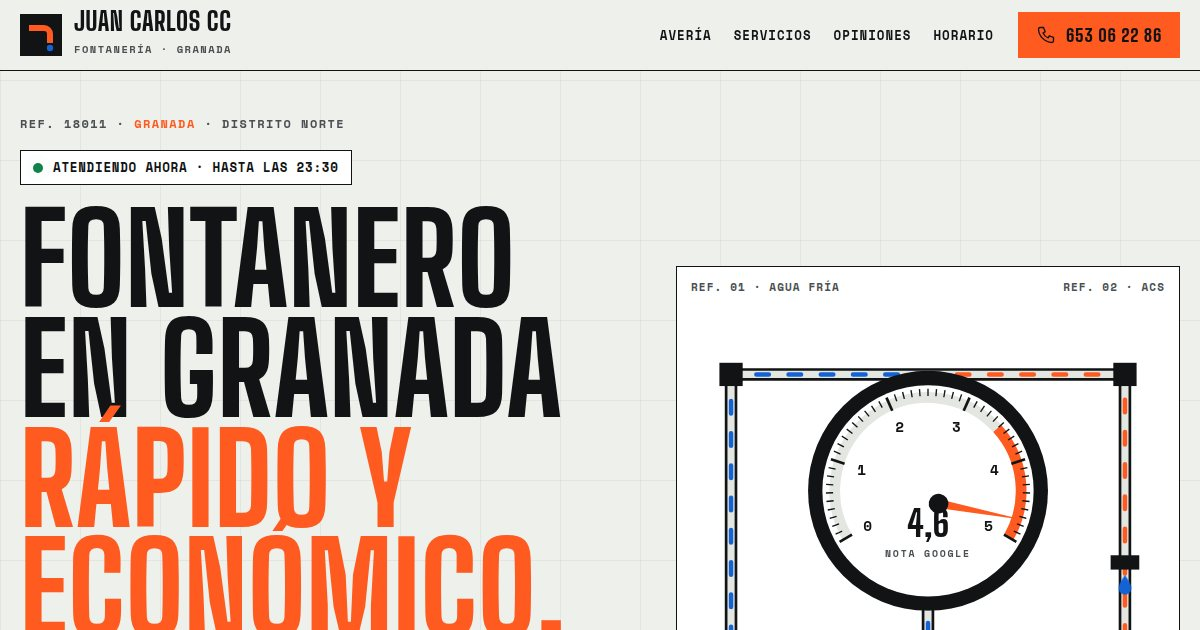
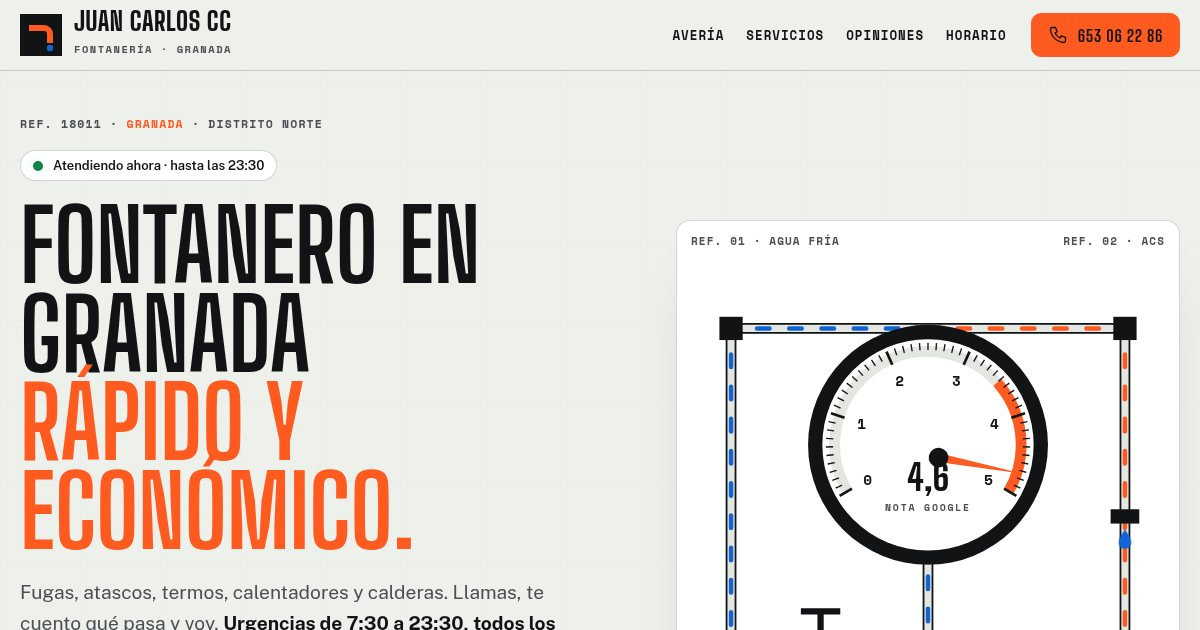
Add files via upload

diff --git a/demos/juan-carlos-fontanero-granada.html b/demos/juan-carlos-fontanero-granada.html
@@ -310,6 +310,96 @@ legend b{color:var(--naranja-osc)}
   .serv{height:auto}.serv-fijo{position:relative;height:auto;padding:90px 0}.pista{flex-direction:column;padding:0 20px}.srv{width:100%}.progreso{display:none}
   .barras .b i{transform:none}
 }
+/* ── versión tranquila: mismo estilo, menos golpe ── */
+:root{--linea-2:rgba(17,19,21,.18);--r:14px}
+body::before{opacity:.12}
+h1,h2,h3{font-weight:700;letter-spacing:0}
+h2,h3{text-transform:none;line-height:.95}
+.aviso{font-family:var(--txt);font-size:13px}
+.cab{border-bottom:1px solid var(--linea-2)}
+.btn{border-width:1px;border-radius:10px;font-weight:700;font-size:18px;padding:14px 20px;border-color:var(--linea-2)}
+.btn-naranja{border-color:var(--naranja)}
+.btn-tinta{border-color:var(--tinta)}
+.cab .btn{font-size:17px}
+.hero{border-bottom:0;padding-bottom:30px}
+.hero h1{font-size:clamp(54px,8.2vw,118px);line-height:.9}
+.estado{border-width:1px;border-color:var(--linea-2);border-radius:99px;font-family:var(--txt);font-size:13px;letter-spacing:0;text-transform:none;font-weight:600}
+.hero .dato div{border-left-width:2px}
+.panel{border:1px solid var(--linea-2);border-radius:var(--r);overflow:hidden;box-shadow:0 30px 60px -40px rgba(17,19,21,.35)}
+.tubo{stroke-width:12}
+.cinta{background:var(--blanco);border-block:1px solid var(--linea-2);padding:12px 0}
+.cinta-pista{animation-duration:60s}
+.cinta span{font-size:clamp(22px,2.4vw,30px);font-weight:600;gap:36px;color:var(--tinta-2)}
+.cinta span::after{width:9px;height:9px;background:var(--naranja);border-radius:2px}
+.sec{padding:clamp(70px,8vw,110px) 0}
+.cabeza h2{font-size:clamp(40px,5vw,68px)}
+.ref{font-size:11.5px;letter-spacing:.1em}
+.diag{background:transparent;border:0}
+.diag-grid{background:var(--blanco);border:1px solid var(--linea-2);border-radius:var(--r);padding:clamp(20px,3vw,34px)}
+.av span{border:1px solid var(--linea-2);border-radius:12px;background:var(--papel)}
+.av b{font-weight:700;text-transform:none;font-size:21px}
+.av input:checked+span{background:var(--tinta);border-color:var(--tinta)}
+.chip span{border:1px solid var(--linea-2);border-radius:99px;font-family:var(--txt);font-size:14px;font-weight:600;text-transform:none;letter-spacing:0}
+.chip input:checked+span{background:var(--tinta);border-color:var(--tinta);color:#fff}
+legend{font-family:var(--txt);font-size:13px;letter-spacing:.04em}
+.campo label{font-family:var(--txt);font-size:12.5px;letter-spacing:.04em}
+.campo input{border:1px solid var(--linea-2);border-radius:10px}
+.parte{border:1px solid var(--linea-2);border-radius:12px;overflow:hidden}
+.parte-cab{background:var(--papel-2);color:var(--tinta)}
+.parte-cab b{color:var(--naranja-osc)}
+/* servicios en rejilla, sin scroll fijado */
+.serv{height:auto;padding:clamp(70px,8vw,110px) 0}
+.serv-fijo{position:relative;height:auto;padding:0;display:block}
+.serv-cab h2{font-size:clamp(40px,5vw,68px)}
+.progreso{display:none}
+.pista{display:grid;grid-template-columns:repeat(3,1fr);gap:16px;padding:0;width:min(1240px,100% - 40px);margin-inline:auto;transform:none!important}
+.srv{width:auto;min-height:0;border:1px solid var(--linea-2);border-radius:var(--r);background:var(--blanco)!important;padding:24px}
+.srv:nth-child(4),.srv:nth-child(5){grid-column:span 1}
+.srv .num{font-size:64px;-webkit-text-stroke:1px var(--linea-2);right:18px;top:18px}
+.srv svg.ico{width:48px;height:48px}
+.srv h3{font-size:clamp(30px,2.6vw,38px);margin-top:10px}
+.srv .tag{border:1px solid var(--linea-2);border-radius:99px;font-family:var(--txt);text-transform:none;letter-spacing:0;font-size:12.5px;background:var(--papel)}
+.srv-cta{border:1px dashed var(--linea-2);border-radius:var(--r);padding:24px;display:flex;flex-direction:column;justify-content:center;gap:14px;background:transparent}
+.srv-cta b{font:700 30px/1 var(--tit)}
+.srv-cta p{color:var(--tinta-2)}
+.cifras{background:var(--blanco);color:var(--tinta);border-block:1px solid var(--linea-2)}
+.cifras div.c{border-left-color:var(--linea-2);padding:34px 20px}
+.cifras b{font-size:clamp(52px,6vw,84px);font-weight:700}
+.cifras span{color:var(--tinta-2);font-family:var(--txt);letter-spacing:.02em;text-transform:none;font-size:14px}
+.barras li{font-family:var(--txt);text-transform:none;font-weight:600}
+.barras .b{border:0;border-radius:99px;height:14px}
+.barras .b i{border-radius:99px}
+.palabras h2{font-size:clamp(40px,5vw,68px)}
+.res{border:1px solid var(--linea-2);border-radius:var(--r)}
+.res:first-child{background:var(--blanco);box-shadow:inset 4px 0 0 var(--naranja)}
+.res:first-child .est{color:var(--naranja-osc)}
+.res blockquote{font-family:var(--txt);text-transform:none;font-weight:600;font-size:clamp(18px,1.5vw,21px);line-height:1.45}
+.res:first-child blockquote{font-size:clamp(21px,1.9vw,26px)}
+.res footer{font-family:var(--txt)}
+.extractos span{border-radius:99px;border-style:solid;border-color:var(--linea);font-family:var(--txt)}
+.nota-g{font-family:var(--txt);letter-spacing:0;text-transform:none}
+.pasos{border:1px solid var(--linea-2);border-radius:var(--r);overflow:hidden}
+.paso{border-left:1px solid var(--linea-2)}
+.paso .n{font-size:54px;font-weight:700}
+.paso h3{font-size:30px}
+.caja,.mapa{border:1px solid var(--linea-2);border-radius:var(--r);overflow:hidden}
+.caja h3{font-size:32px}
+.tabla{font-family:var(--txt)}
+.mapa .pie{border:1px solid var(--linea-2);border-radius:10px}
+.mapa .pie b{text-transform:none;font-weight:700}
+.preguntas{border-top:1px solid var(--linea-2)}
+.preguntas details{border-bottom:1px solid var(--linea-2)}
+.preguntas summary{text-transform:none;font-weight:700;font-size:clamp(22px,2vw,28px)}
+.preguntas summary i{border:1px solid var(--linea-2);border-radius:50%;font-size:18px;width:34px;height:34px}
+.preguntas details[open] summary i{background:var(--papel-2)}
+.final{background:var(--blanco);border-block:1px solid var(--linea-2)}
+.final h2{font-size:clamp(52px,7.6vw,110px)}
+.final p{font-family:var(--txt);text-transform:none;letter-spacing:0;font-weight:500;color:var(--tinta-2)}
+.final .btn-naranja{background:var(--naranja);border-color:var(--naranja);color:var(--tinta)}
+.firma{border-top:1px solid var(--linea-2)}
+.pie .nom{font-weight:700;text-transform:none}
+@media (max-width:980px){.pista{grid-template-columns:1fr 1fr}.paso{border-left:0;border-top:1px solid var(--linea-2)}.paso:first-child{border-top:0}}
+@media (max-width:640px){.pista{grid-template-columns:1fr}.barra-movil{border-top:1px solid var(--linea-2)}.barra-movil a{font-weight:700}}
 </style>
 </head>
 <body>
@@ -397,7 +487,7 @@ legend b{color:var(--naranja-osc)}
 <section class="serv" id="servicios">
   <div class="serv-fijo">
     <div class="envol serv-cab"><div><p class="ref">Ref. 04 · <b>Servicios</b></p><h2>Lo que arreglo</h2></div><div class="progreso" aria-hidden="true"><span id="s-n">01/05</span><span class="barra"><i id="s-b"></i></span></div></div>
-    <div class="pista" id="pista"><article class="srv"><span class="num">01</span><p class="ref">Ref. 01</p><svg class="ico" viewBox="0 0 34 34" fill="none" stroke="currentColor" stroke-width="2.4"><path d="M3 11h18a6 6 0 0 1 6 6v4"/><path d="M27 25c2 3 3 4 3 5.5a3 3 0 0 1-6 0c0-1.5 1-2.5 3-5.5z" fill="currentColor"/></svg><h3>Detección de fugas</h3><p>Localizo la fuga, también la que no se ve, y la reparo.</p><span class="tag">Humedades · Contador que corre</span></article><article class="srv"><span class="num">02</span><p class="ref">Ref. 02</p><svg class="ico" viewBox="0 0 34 34" fill="none" stroke="currentColor" stroke-width="2.4"><path d="M7 5v10a10 10 0 0 0 20 0V5"/><path d="M12 14h10M13 19h8"/><path d="M17 25v6"/></svg><h3>Desatascos</h3><p>Fregaderos, lavabos, duchas y bajantes. Rápido y dejando todo limpio.</p><span class="tag">«Atasco», en sus reseñas</span></article><article class="srv"><span class="num">03</span><p class="ref">Ref. 03</p><svg class="ico" viewBox="0 0 34 34" fill="none" stroke="currentColor" stroke-width="2.4"><rect x="9" y="3" width="16" height="24" rx="3"/><path d="M13 31v-4M21 31v-4"/><circle cx="17" cy="11" r="3"/><path d="M13 20h8"/></svg><h3>Termos y calentadores</h3><p>Instalación y reparación de termos y calentadores de agua. Te asesoro sobre el que te conviene.</p><span class="tag">«Termo», en sus reseñas</span></article><article class="srv"><span class="num">04</span><p class="ref">Ref. 04</p><svg class="ico" viewBox="0 0 34 34" fill="none" stroke="currentColor" stroke-width="2.4"><rect x="6" y="3" width="22" height="26"/><path d="M17 23c-3 0-4-2-4-4 0-3 4-4 4-8 2 2 4 4 4 8 0 2-1 4-4 4z"/><path d="M11 31h12"/></svg><h3>Calderas</h3><p>Instalación de calderas, también eléctricas, dejando todo en perfecto estado.</p><span class="tag">Instalación y reparación</span></article><article class="srv"><span class="num">05</span><p class="ref">Ref. 05</p><svg class="ico" viewBox="0 0 34 34" fill="none" stroke="currentColor" stroke-width="2.4"><path d="M3 10h12v14h16"/><path d="M11 6v8M19 20v8"/></svg><h3>Tuberías</h3><p>Reparación de tubos y tuberías de agua fría y caliente, y las averías del día a día.</p><span class="tag">Reparaciones</span></article></div>
+    <div class="pista" id="pista"><article class="srv"><span class="num">01</span><p class="ref">Ref. 01</p><svg class="ico" viewBox="0 0 34 34" fill="none" stroke="currentColor" stroke-width="2.4"><path d="M3 11h18a6 6 0 0 1 6 6v4"/><path d="M27 25c2 3 3 4 3 5.5a3 3 0 0 1-6 0c0-1.5 1-2.5 3-5.5z" fill="currentColor"/></svg><h3>Detección de fugas</h3><p>Localizo la fuga, también la que no se ve, y la reparo.</p><span class="tag">Humedades · Contador que corre</span></article><article class="srv"><span class="num">02</span><p class="ref">Ref. 02</p><svg class="ico" viewBox="0 0 34 34" fill="none" stroke="currentColor" stroke-width="2.4"><path d="M7 5v10a10 10 0 0 0 20 0V5"/><path d="M12 14h10M13 19h8"/><path d="M17 25v6"/></svg><h3>Desatascos</h3><p>Fregaderos, lavabos, duchas y bajantes. Rápido y dejando todo limpio.</p><span class="tag">«Atasco», en sus reseñas</span></article><article class="srv"><span class="num">03</span><p class="ref">Ref. 03</p><svg class="ico" viewBox="0 0 34 34" fill="none" stroke="currentColor" stroke-width="2.4"><rect x="9" y="3" width="16" height="24" rx="3"/><path d="M13 31v-4M21 31v-4"/><circle cx="17" cy="11" r="3"/><path d="M13 20h8"/></svg><h3>Termos y calentadores</h3><p>Instalación y reparación de termos y calentadores de agua. Te asesoro sobre el que te conviene.</p><span class="tag">«Termo», en sus reseñas</span></article><article class="srv"><span class="num">04</span><p class="ref">Ref. 04</p><svg class="ico" viewBox="0 0 34 34" fill="none" stroke="currentColor" stroke-width="2.4"><rect x="6" y="3" width="22" height="26"/><path d="M17 23c-3 0-4-2-4-4 0-3 4-4 4-8 2 2 4 4 4 8 0 2-1 4-4 4z"/><path d="M11 31h12"/></svg><h3>Calderas</h3><p>Instalación de calderas, también eléctricas, dejando todo en perfecto estado.</p><span class="tag">Instalación y reparación</span></article><article class="srv"><span class="num">05</span><p class="ref">Ref. 05</p><svg class="ico" viewBox="0 0 34 34" fill="none" stroke="currentColor" stroke-width="2.4"><path d="M3 10h12v14h16"/><path d="M11 6v8M19 20v8"/></svg><h3>Tuberías</h3><p>Reparación de tubos y tuberías de agua fría y caliente, y las averías del día a día.</p><span class="tag">Reparaciones</span></article><div class="srv-cta"><b>¿No sale tu avería?</b><p>Cuéntamela por teléfono o mándame una foto y te digo si puedo ayudarte.</p><a class="btn btn-naranja" href="tel:+34653062286"><svg viewBox="0 0 24 24" fill="none" stroke="currentColor" stroke-width="1.6" aria-hidden="true"><path d="M5 3h4l2 5-2.5 1.5a11 11 0 0 0 6 6L16 13l5 2v4a2 2 0 0 1-2 2A17 17 0 0 1 3 5a2 2 0 0 1 2-2"/></svg>Llamar</a></div></div>
   </div>
 </section>
 
@@ -426,11 +516,10 @@ legend b{color:var(--naranja-osc)}
   </div>
 </section>
 
-<div class="aviso-rayas" aria-hidden="true"></div>
 
 <section class="sec" id="como">
   <div class="envol">
-    <div class="cabeza rev"><p class="ref">Ref. 07 · <b>Cómo trabajo</b></p><h2>Tres pasos y listo</h2></div>
+    <div class="cabeza rev"><p class="ref">Ref. 07 · <b>Cómo trabajo</b></p><h2>Así de sencillo</h2></div>
     <div class="pasos rev">
       <div class="paso"><span class="n">01</span><h3>Me llamas o escribes</h3><p>Por teléfono o por WhatsApp con una foto de la avería. Así voy con el material que hace falta.</p></div>
       <div class="paso"><span class="n">02</span><h3>Voy y lo miro</h3><p>Te explico qué pasa y cómo se arregla, sin tecnicismos, y te asesoro sobre la mejor opción para tu casa.</p></div>
@@ -478,7 +567,7 @@ legend b{color:var(--naranja-osc)}
 
 <section class="sec final">
   <div class="envol">
-    <h2 class="rev">¿Gotea? Llama.</h2>
+    <h2 class="rev">¿Tienes una avería?</h2>
     <p class="rev" data-estado3>Urgencias de 7:30 a 23:30 · Todos los días</p>
     <div class="botones rev"><a class="btn btn-naranja" href="tel:+34653062286"><svg viewBox="0 0 24 24" fill="none" stroke="currentColor" stroke-width="1.6" aria-hidden="true"><path d="M5 3h4l2 5-2.5 1.5a11 11 0 0 0 6 6L16 13l5 2v4a2 2 0 0 1-2 2A17 17 0 0 1 3 5a2 2 0 0 1 2-2"/></svg>653 06 22 86</a><a class="btn" href="https://wa.me/34653062286?text=Hola%20Carlos%2C%20tengo%20una%20aver%C3%ADa%20de%20fontaner%C3%ADa." target="_blank" rel="noopener"><svg viewBox="0 0 24 24" fill="currentColor" aria-hidden="true"><path d="M12 2a10 10 0 0 0-8.6 15.1L2 22l5-1.3A10 10 0 1 0 12 2zm0 18.2c-1.5 0-3-.4-4.3-1.2l-.3-.2-3 .8.8-2.9-.2-.3A8.2 8.2 0 1 1 12 20.2zm4.5-6.1c-.2-.1-1.5-.7-1.7-.8-.2-.1-.4-.1-.6.1l-.8 1c-.1.2-.3.2-.5.1a6.7 6.7 0 0 1-3.3-2.9c-.2-.4.2-.4.7-1.3.1-.2 0-.3 0-.4l-.8-1.8c-.2-.5-.4-.4-.6-.4h-.5a1 1 0 0 0-.7.3 3 3 0 0 0-.9 2.2 5.2 5.2 0 0 0 1.1 2.8 11.9 11.9 0 0 0 4.6 4c1.7.7 2.3.8 3.2.6.5-.1 1.5-.6 1.7-1.2.2-.6.2-1.1.1-1.2l-.5-.3z"/></svg>WhatsApp</a></div>
   </div>
@@ -533,11 +622,11 @@ legend b{color:var(--naranja-osc)}
     (function f(t){ var k=Math.min(1,(t-t0)/dur), out='';
       for(var i=0;i<fin.length;i++){ var c=fin[i]; out+= (/\d/.test(c) && i>=Math.floor(k*fin.length)) ? set[(Math.random()*10)|0] : c; }
       el.textContent=out; if(k<1) requestAnimationFrame(f); else el.textContent=fin; })(t0); }
-  if(!reducido && 'IntersectionObserver' in window){ var ic=new IntersectionObserver(function(es){ es.forEach(function(e){ if(e.isIntersecting){ descifra(e.target); ic.unobserve(e.target);} }); },{threshold:.6}); cif.forEach(function(c){ic.observe(c)}); }
+  if(false){ var ic=new IntersectionObserver(function(es){ es.forEach(function(e){ if(e.isIntersecting){ descifra(e.target); ic.unobserve(e.target);} }); },{threshold:.6}); cif.forEach(function(c){ic.observe(c)}); }
 
   /* servicios: scroll horizontal fijado */
   var sec=document.getElementById('servicios'), pista=document.getElementById('pista'), sb=document.getElementById('s-b'), sn=document.getElementById('s-n'), total=pista.children.length;
-  var escritorio=window.matchMedia('(min-width:981px)');
+  var escritorio={matches:false};
   function mover(){
     if(reducido||!escritorio.matches){ pista.style.transform=''; return; }
     var r=sec.getBoundingClientRect(), rango=sec.offsetHeight-window.innerHeight, p=Math.min(1,Math.max(0,-r.top/rango));
